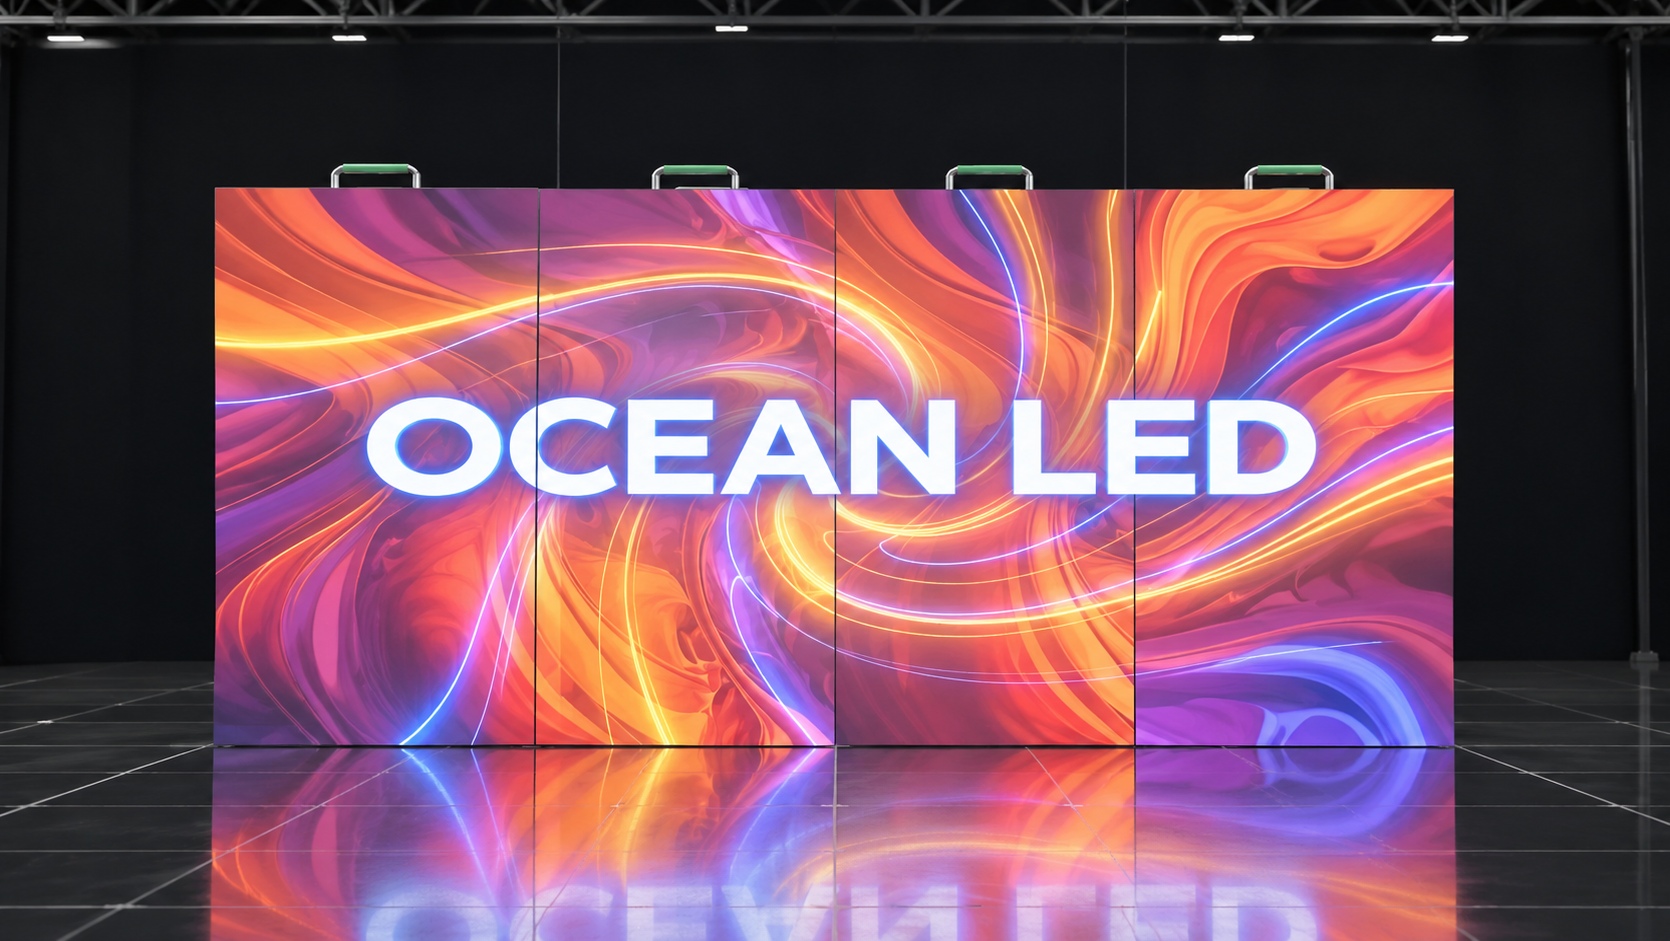
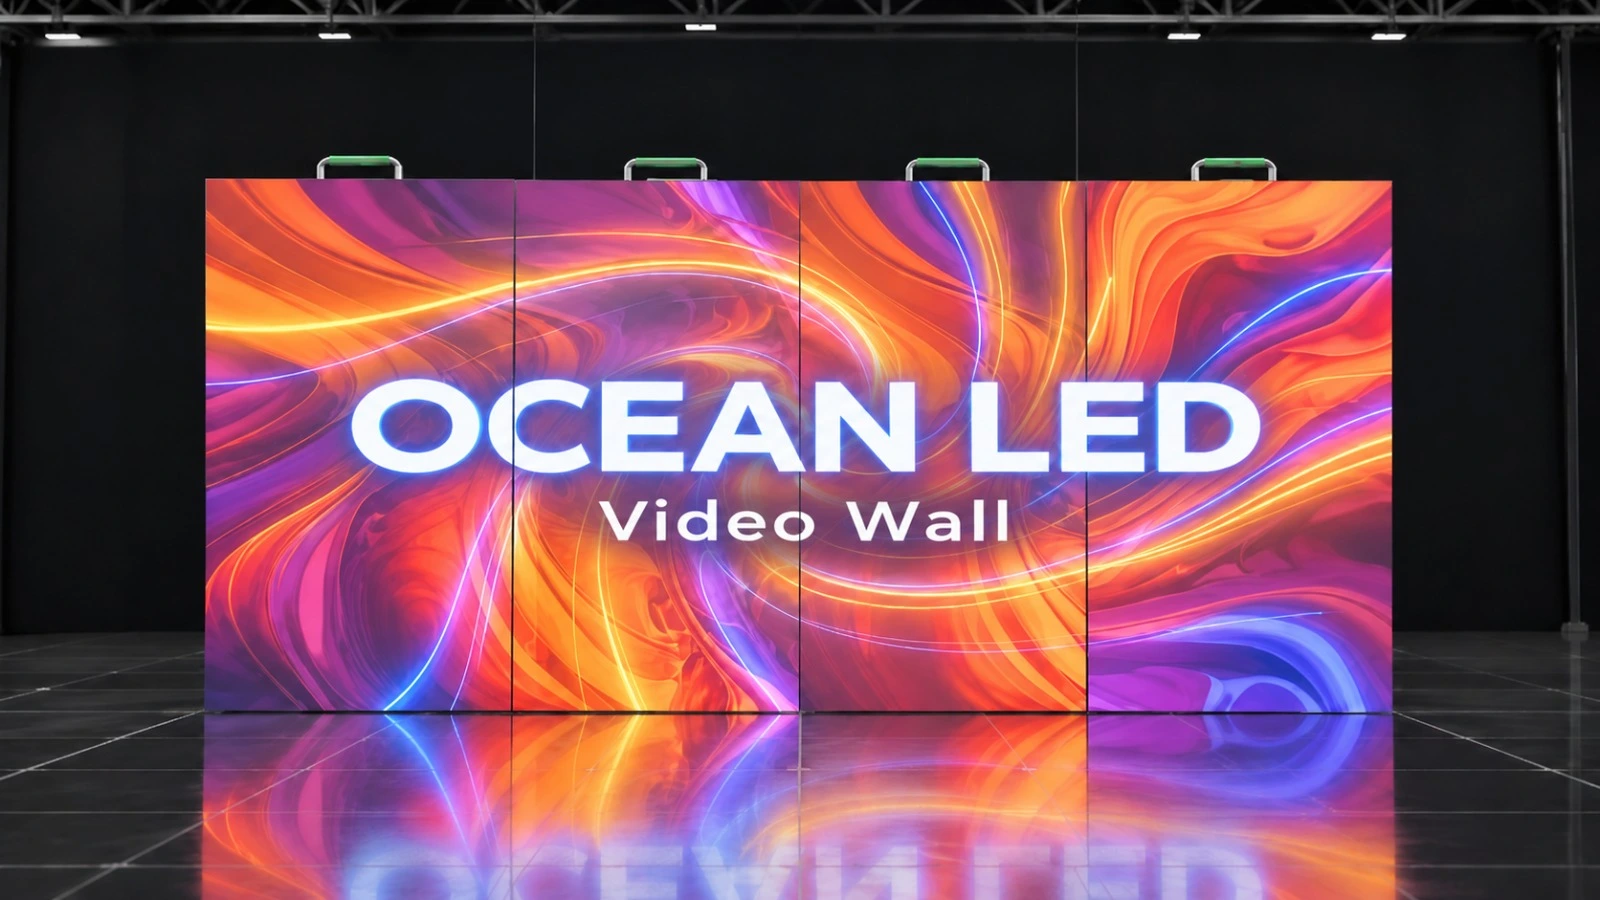
added the code for added the name of video wall

diff --git a/src/components/Loader.tsx b/src/components/Loader.tsx
@@ -418,31 +418,47 @@ export default function Loader({ onComplete }: LoaderProps) {
         />
 
         {/* company name */}
-        <p
-          className="flex text-4xl font-bold uppercase sm:text-5xl md:text-6xl -mt-12"
-          aria-hidden="true"
-          style={{
-            color: "#f2f8ff",
-            textShadow:
-              "0 0 22px rgba(90,160,255,0.55), 0 2px 14px rgba(2,4,10,0.95)",
-          }}
-        >
-          {NAME.split("").map((ch, i) => (
-            <span
-              key={i}
-              className="inline-block transition-all duration-700 ease-out"
-              style={{
-                opacity: showName ? 1 : 0,
-                transform: showName ? "translateY(0)" : "translateY(10px)",
-                transitionDelay: "0ms",
-                marginRight: "0.14em",
-                minWidth: ch === " " ? "0.4em" : undefined,
-              }}
-            >
-              {ch === " " ? "\u00A0" : ch}
-            </span>
-          ))}
-        </p>
+        <div className="-mt-12 flex flex-col items-center">
+          <p
+            className="flex text-4xl font-bold uppercase sm:text-5xl md:text-6xl"
+            aria-hidden="true"
+            style={{
+              color: "#f2f8ff",
+              textShadow:
+                "0 0 22px rgba(90,160,255,0.55), 0 2px 14px rgba(2,4,10,0.95)",
+            }}
+          >
+            {NAME.split("").map((ch, i) => (
+              <span
+                key={i}
+                className="inline-block transition-all duration-700 ease-out"
+                style={{
+                  opacity: showName ? 1 : 0,
+                  transform: showName ? "translateY(0)" : "translateY(10px)",
+                  transitionDelay: "0ms",
+                  marginRight: "0.14em",
+                  minWidth: ch === " " ? "0.4em" : undefined,
+                }}
+              >
+                {ch === " " ? "\u00A0" : ch}
+              </span>
+            ))}
+          </p>
+
+          <p
+            className="mt-2 text-xs font-medium uppercase tracking-[0.4em] sm:text-sm md:text-base transition-all duration-700 ease-out"
+            aria-hidden="true"
+            style={{
+              color: "rgba(242,248,255,0.75)",
+              textShadow: "0 0 12px rgba(90,160,255,0.45)",
+              opacity: showName ? 1 : 0,
+              transform: showName ? "translateY(0)" : "translateY(10px)",
+              transitionDelay: "300ms",
+            }}
+          >
+            Video Wall
+          </p>
+        </div>
 
         <div
           className="mt-8 w-44 transition-opacity duration-700 sm:w-60"

diff --git a/src/components/Footer.tsx b/src/components/Footer.tsx
@@ -70,11 +70,7 @@ export default function Footer() {
 
             <div className="flex flex-col items-start justify-between gap-6 lg:flex-row lg:items-center">
               <div>
-                <span className="inline-flex items-center gap-3 rounded-full border border-white/10 bg-white/3 px-4 py-2 text-xs font-medium text-white/70 sm:text-sm">
-                  <span className="h-2.5 w-2.5 rounded-full bg-ocean-cyan shadow-[0_0_10px_rgba(0,229,255,0.9)]" />
-                  Let’s talk — free quote
-                </span>
-                <h2 className="mt-4 text-2xl font-extrabold uppercase leading-[0.95] tracking-tighter text-white sm:text-4xl">
+                <h2 className="mt-2 text-2xl font-extrabold uppercase leading-[0.95] tracking-tighter text-white sm:text-4xl">
                   Ready to light up
                   <span className="mt-2 block bg-linear-to-r from-slate-400 via-slate-300 to-ocean-cyan bg-clip-text text-transparent">
                     your space?
@@ -111,8 +107,13 @@ export default function Footer() {
                   loading="lazy"
                   className="h-28 w-28"
                 />
-                <span className="-ml-5 text-xl font-extrabold uppercase tracking-wide text-white transition-colors group-hover:text-ocean-cyan">
-                  OCEAN LED
+                <span className="-ml-5 flex flex-col leading-none">
+                  <span className="text-xl font-extrabold uppercase tracking-wide text-white transition-colors group-hover:text-ocean-cyan">
+                    OCEAN LED
+                  </span>
+                  <span className="mt-1.5 ml-2.5 text-[11px] font-medium tracking-[0.3em] text-white/70">
+                    Video Wall
+                  </span>
                 </span>
               </a>
               <p className="-mt-6 max-w-sm text-sm leading-relaxed text-white/65">
@@ -192,7 +193,7 @@ export default function Footer() {
         <div className="mt-14 flex flex-col items-center justify-between gap-4 border-t border-white/10 pt-8 sm:flex-row">
           <div className="flex flex-wrap items-center justify-center gap-x-4 gap-y-2">
             <p className="text-xs text-white/40">
-              © {year} OCEAN LED. All rights reserved.
+              © {year} OCEAN LED video wall. All rights reserved.
             </p>
             <span className="hidden h-3 w-px bg-white/15 sm:block" />
             <a

diff --git a/src/components/WhyOceanLed.tsx b/src/components/WhyOceanLed.tsx
@@ -1,4 +1,4 @@
-import { Sparkles, Cpu, Shield, Settings, type LucideIcon } from "lucide-react";
+import { ScanEye, Cpu, Shield, Settings, type LucideIcon } from "lucide-react";
 import type { MouseEvent } from "react";
 import Reveal from "./Reveal";
 import { navigate, pageHref } from "../router";
@@ -11,28 +11,28 @@ interface Reason {
 
 const REASONS: Reason[] = [
   {
-    icon: Sparkles,
-    title: "Visual Quality",
+    icon: ScanEye,
+    title: "Stunning Visuals",
     description:
-      "Exceptional brightness, contrast, and color fidelity that make every pixel count.",
+      "Crisp resolution and true-to-life color that keep every image clear from any distance.",
   },
   {
     icon: Cpu,
-    title: "Innovative Technology",
+    title: "Next-Gen Technology",
     description:
-      "Cutting-edge LED modules and processing systems designed for next-generation displays.",
+      "Advanced LED modules and smart processing that deliver flawless performance on every display.",
   },
   {
     icon: Shield,
-    title: "Dependable Performance",
+    title: "Proven Performance",
     description:
-      "Built for continuous operation with robust components and rigorous quality standards.",
+      "Tough, long-lasting hardware built to stay stable through years of nonstop use.",
   },
   {
     icon: Settings,
-    title: "Tailored Solutions",
+    title: "Custom Builds",
     description:
-      "Custom configurations and support to match the exact needs of your project.",
+      "Expert guidance from planning to installation, so the final display fits your project exactly.",
   },
 ];
 

diff --git a/src/components/admin/AdminLogin.tsx b/src/components/admin/AdminLogin.tsx
@@ -49,17 +49,17 @@ export default function AdminLogin({
         <div className="text-center lg:text-left">
           <div className="flex items-center justify-center gap-3 lg:justify-start">
             <img src={oceanLogo} alt="" className="h-28 w-28" />
-            <span className="-ml-8 text-xl font-extrabold uppercase tracking-wide text-white">
-              OCEAN LED
+            <span className="-ml-8 flex flex-col leading-none">
+              <span className="text-xl font-extrabold uppercase tracking-wide text-white">
+                OCEAN LED
+              </span>
+              <span className="mt-1.5 ml-2.5 text-[11px] font-medium uppercase tracking-[0.3em] text-white/70">
+                Video Wall
+              </span>
             </span>
           </div>
 
-          <span className=" inline-flex items-center gap-3 rounded-full border border-white/10 bg-white/3 px-4 py-2 text-[11px] font-medium uppercase tracking-wider text-white/70 sm:text-sm">
-            <span className="h-2.5 w-2.5 rounded-full bg-ocean-cyan shadow-[0_0_10px_rgba(0,229,255,0.9)]" />
-            Admin Panel // Secure Access
-          </span>
-
-          <h1 className="mt-5 text-3xl font-extrabold uppercase leading-[0.95] tracking-tighter text-white sm:text-5xl lg:text-6xl">
+          <h1 className="text-3xl font-extrabold uppercase leading-[0.95] tracking-tighter text-white sm:text-5xl lg:text-6xl">
             Manage your
             <span className="block bg-linear-to-r from-slate-400 via-slate-300 to-ocean-cyan bg-clip-text text-transparent">
               website content.

diff --git a/src/components/PrivacyPolicy.tsx b/src/components/PrivacyPolicy.tsx
@@ -1,4 +1,4 @@
-import { Mail, Phone, MapPin, ShieldCheck } from "lucide-react";
+import { Mail, Phone, MapPin } from "lucide-react";
 import { useSiteSettings } from "../context/SiteSettingsContext";
 import { pageHref } from "../router";
 import GrievanceSection from "./GrievanceSection";
@@ -134,10 +134,6 @@ export default function PrivacyPolicy() {
       <div className="pointer-events-none absolute inset-0 bg-[radial-gradient(ellipse_at_15%_0%,rgba(0,229,255,0.08),transparent_55%)]" />
 
       <div className="relative mx-auto max-w-4xl">
-        <span className="inline-flex items-center gap-3 rounded-full border border-white/10 bg-white/3 px-4 py-2 text-xs font-medium text-white/70 sm:text-sm">
-          <ShieldCheck size={14} className="text-ocean-cyan" />
-          Your data, your control
-        </span>
         <h1 className="mt-4 text-3xl font-extrabold uppercase tracking-tighter text-white sm:text-5xl">
           Privacy Policy
         </h1>

diff --git a/src/components/About.tsx b/src/components/About.tsx
@@ -1,4 +1,4 @@
-import { Sparkles, Cpu, Shield, Settings } from "lucide-react";
+import { ScanEye, Cpu, Shield, Settings } from "lucide-react";
 import type { MouseEvent } from "react";
 import Reveal from "./Reveal";
 import { navigate, pageHref } from "../router";
@@ -6,16 +6,16 @@ import aboutImage from "../assets/ocean_led_logo.png";
 
 const HIGHLIGHTS = [
   {
-    icon: Sparkles,
+    icon: ScanEye,
     title: "Visual Quality",
     description:
-      "Exceptional brightness, contrast, and color fidelity that make every pixel count.",
+      "Crisp resolution and true-to-life color that keep every image clear from any distance.",
   },
   {
     icon: Cpu,
     title: "Innovative Technology",
     description:
-      "Cutting-edge LED modules and processing systems designed for next-generation displays.",
+      "Advanced LED modules and smart processing that deliver flawless performance on every display.",
   },
   {
     icon: Shield,

diff --git a/src/components/Navbar.tsx b/src/components/Navbar.tsx
@@ -73,8 +73,14 @@ export default function Navbar({ onOpenAdmin }: { onOpenAdmin: () => void }) {
               className="absolute left-[-62.8%] top-[-69.9%] w-[224.2%] max-w-none"
             />
           </span>
-          <span className=" ml-2.5 text-lg font-extrabold uppercase tracking-wide text-white transition-colors group-hover:text-ocean-cyan">
-            OCEAN LED
+
+          <span className="ml-2.5 flex flex-col leading-none">
+            <span className="text-lg font-extrabold uppercase tracking-wide text-white transition-colors group-hover:text-ocean-cyan">
+              OCEAN LED
+            </span>
+            <span className="mt-1 ml-2.5 text-[10px] font-medium tracking-[0.3em] text-white/70 md:text-[11px]">
+              Video Wall
+            </span>
           </span>
         </a>
 

diff --git a/src/components/ManageConsent.tsx b/src/components/ManageConsent.tsx
@@ -95,10 +95,6 @@ export default function ManageConsent() {
     <section className="relative overflow-hidden bg-ocean-dark px-4 py-16 sm:px-6 md:py-24 lg:px-8">
       <div className="pointer-events-none absolute inset-0 bg-[radial-gradient(ellipse_at_15%_0%,rgba(0,229,255,0.08),transparent_55%)]" />
       <div className="relative mx-auto max-w-2xl">
-        <span className="inline-flex items-center gap-3 rounded-full border border-white/10 bg-white/3 px-4 py-2 text-xs font-medium text-white/70 sm:text-sm">
-          <ShieldCheck size={14} className="text-ocean-cyan" />
-          Your data, your control
-        </span>
         <h1 className="mt-4 text-3xl font-extrabold uppercase tracking-tighter text-white sm:text-5xl">
           Manage consent
         </h1>

diff --git a/src/components/admin/AdminDashboard.tsx b/src/components/admin/AdminDashboard.tsx
@@ -311,7 +311,10 @@ export default function AdminDashboard({ onBack }: { onBack: () => void }) {
             <p className="text-base font-extrabold uppercase leading-none tracking-wide text-white">
               OCEAN LED
             </p>
-            <p className="mt-1 text-[10px] font-medium uppercase tracking-[0.2em] text-ocean-cyan">
+            <p className="mt-1 ml-1 text-[10px] font-medium uppercase leading-none tracking-[0.3em] text-white/70">
+              Video Wall
+            </p>
+            <p className="mt-1.5 text-[10px] font-medium uppercase leading-none tracking-[0.2em] text-ocean-cyan/80">
               Admin Panel
             </p>
           </div>
